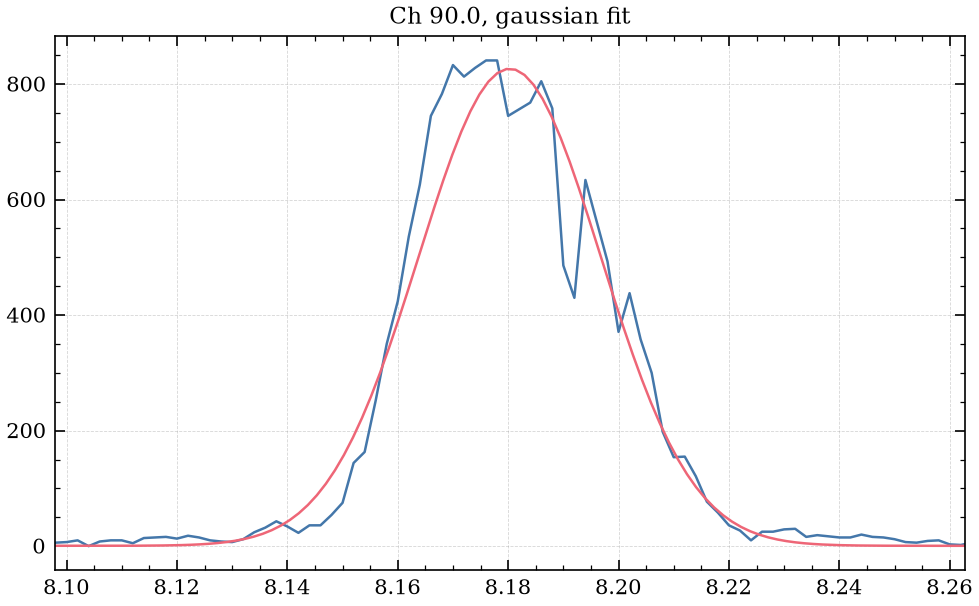
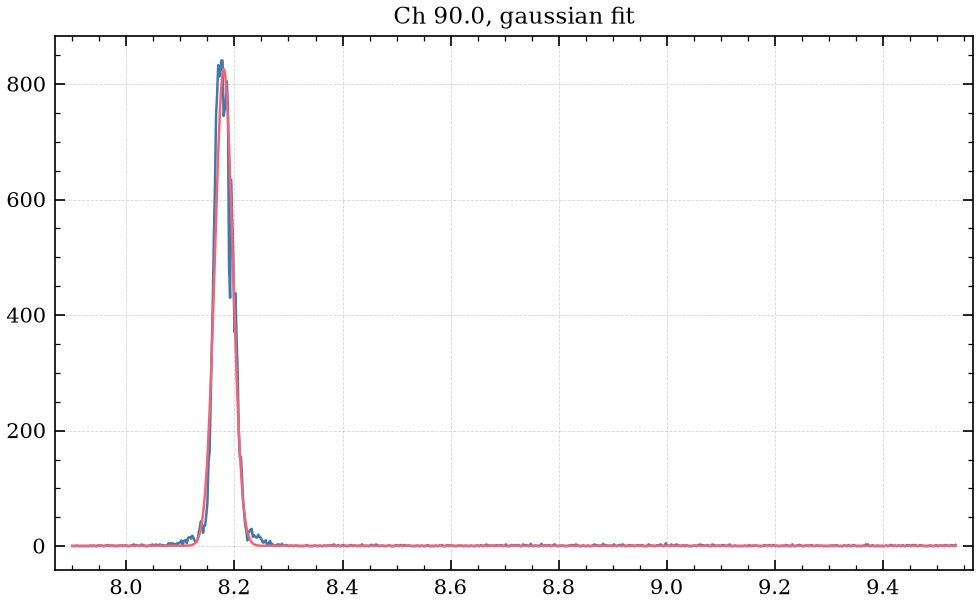
ana

diff --git a/x_scan.py b/x_scan.py
@@ -82,7 +82,7 @@ class XScan(BaseAnalysis):
                 xr = np.linspace(x.min(), x.max(), 1000)
                 ax.plot(x, y)
                 ax.plot(xr, curve(xr))
-                ax.set_xlim(popt[1] - 5 * popt[2], popt[1] + 5 * popt[2])
+                # ax.set_xlim(popt[1] - 5 * popt[2], popt[1] + 5 * popt[2])
                 ax.set_title(f"Ch {ch}, {self.cfg.fit_model.replace('_', '-')} fit")
                 fig.savefig(fitdir / f"channel_{ch}_{self.cfg.fit_model}_fit.png", dpi=150)
                 plt.close(fig)
